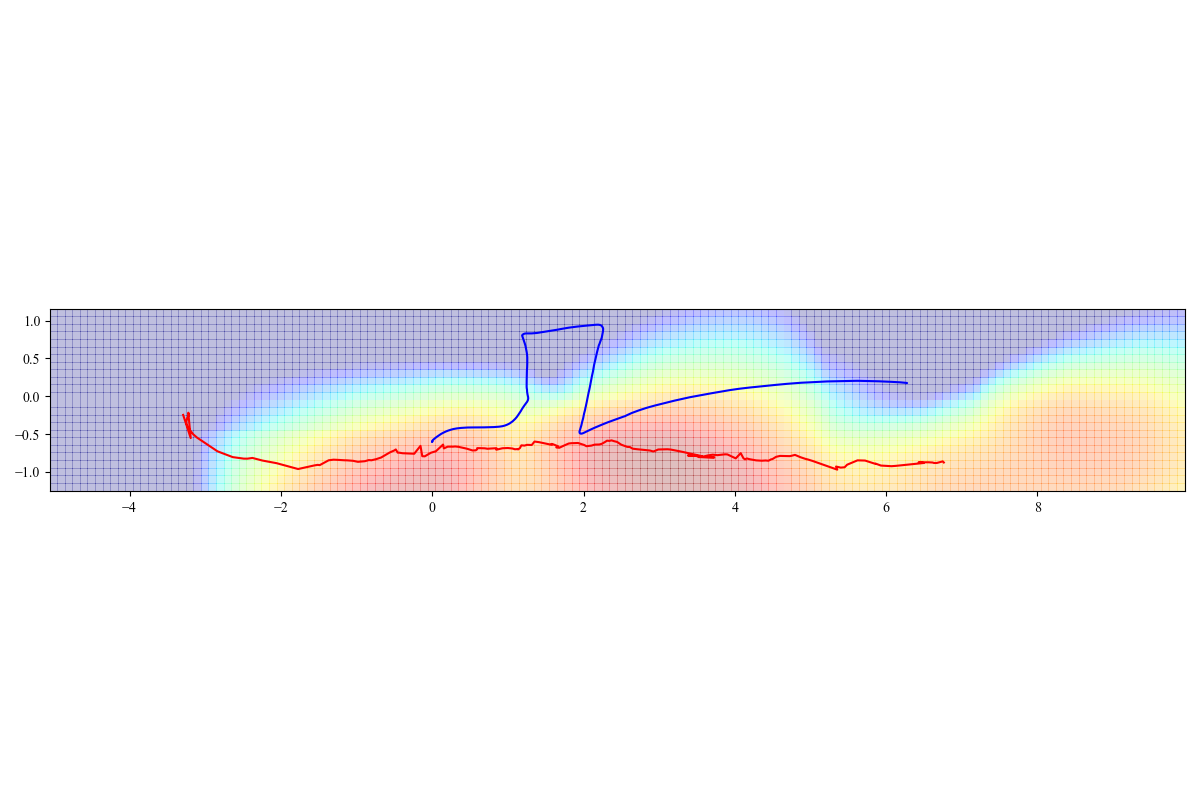
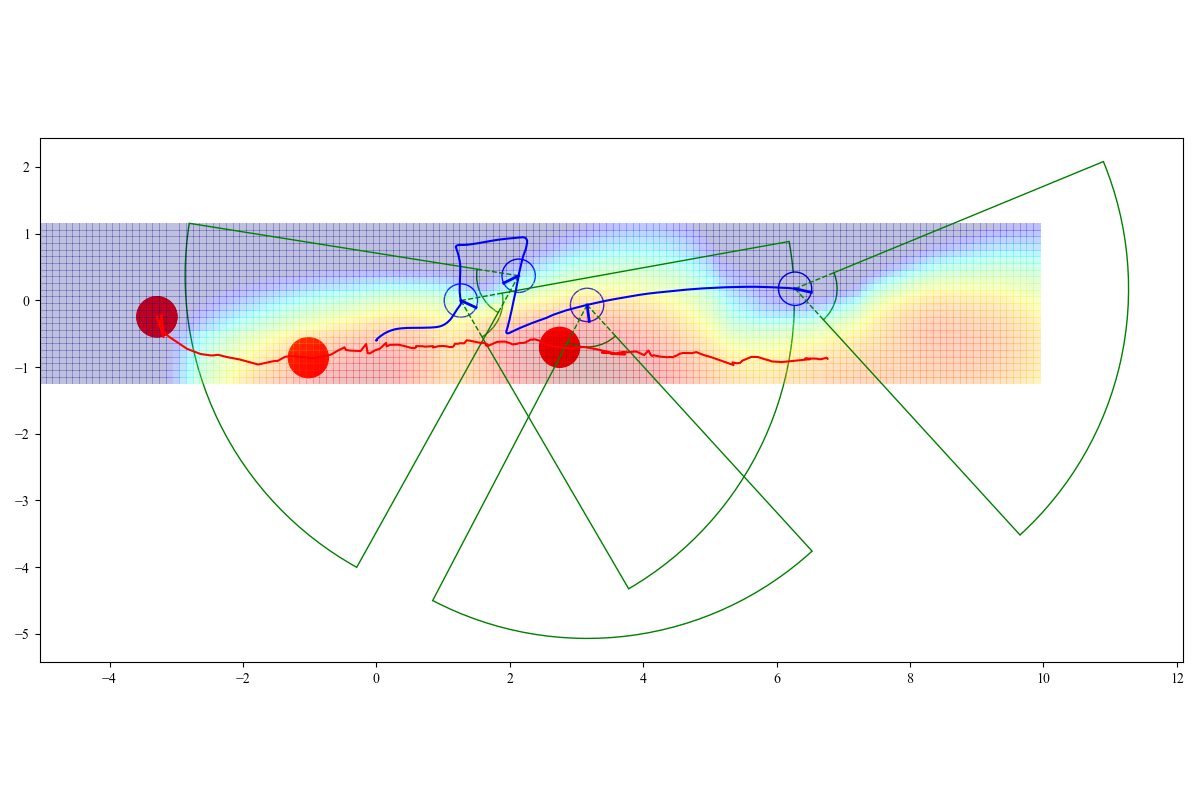
wip

diff --git a/sotsuron_experiment/scripts/analysis_ras_animation.py b/sotsuron_experiment/scripts/analysis_ras_animation.py
@@ -11,7 +11,7 @@ from analysis_management import *
 from analysis_initial_processor import *
 
 class plotSituation():
-    def __init__(self,bag_basename="_2023-12-21-14-39-52"):
+    def __init__(self,bag_basename="_2023-12-21-11-09-57"):
         self.bag_basename=bag_basename
         self.exp_memo_path=f"C:/Users/hayashide/ytlab_ros_ws/ytlab_nlpmp/ytlab_nlpmp_modules/scripts/memo/exp_memo.csv"
         self.nlpmp_results_dir_path="C:/Users/hayashide/ytlab_ros_ws/ytlab_nlpmp/ytlab_nlpmp_modules/results"
@@ -142,8 +142,8 @@ class plotSituation():
 
             # print(f"{theta}, {pan}")
 
-            arc_r1 = patches.Arc(xy=(xR,yR), width=2*self.sns['r1'], height=2*self.sns['r1'], theta1=180/np.pi*((pan+theta)-self.sns['phi']), theta2=180/np.pi*((pan+theta)+self.sns['phi']), edgecolor="g", linewidth=0.5, label="arc")
-            arc_r2 = patches.Arc(xy=(xR,yR), width=2*self.sns['r2'], height=2*self.sns['r2'], theta1=180/np.pi*((pan+theta)-self.sns['phi']), theta2=180/np.pi*((pan+theta)+self.sns['phi']), edgecolor="g", linewidth=0.5, label="arc")
+            arc_r1 = patches.Arc(xy=(xR,yR), width=2*self.sns['r1'], height=2*self.sns['r1'], theta1=180/np.pi*((pan+theta)-self.sns['phi']), theta2=180/np.pi*((pan+theta)+self.sns['phi']), edgecolor="g", linewidth=0.5, label="measurable area")
+            arc_r2 = patches.Arc(xy=(xR,yR), width=2*self.sns['r2'], height=2*self.sns['r2'], theta1=180/np.pi*((pan+theta)-self.sns['phi']), theta2=180/np.pi*((pan+theta)+self.sns['phi']), edgecolor="g", linewidth=0.5)
             plt.gca().add_patch(arc_r1)
             plt.gca().add_patch(arc_r2)
 
@@ -153,7 +153,7 @@ class plotSituation():
                                 [arc_r1_y[-1], arc_r2_y[-1]], 'g', linewidth=0.1,alpha=0.2)
         plt.show()
 
-    def add_plot(self,row):
+    def add_plot_ougi(self,row):
         arc_resolution=100
         xR=row["x"]
         yR=row["y"]
@@ -172,27 +172,33 @@ class plotSituation():
 
         # print(f"{theta}, {pan}")
 
-        arc_r1 = patches.Arc(xy=(xR,yR), width=2*self.sns['r1'], height=2*self.sns['r1'], theta1=180/np.pi*((pan+theta)-self.sns['phi']), theta2=180/np.pi*((pan+theta)+self.sns['phi']), edgecolor="g", linewidth=1, label="arc")
-        arc_r2 = patches.Arc(xy=(xR,yR), width=2*self.sns['r2'], height=2*self.sns['r2'], theta1=180/np.pi*((pan+theta)-self.sns['phi']), theta2=180/np.pi*((pan+theta)+self.sns['phi']), edgecolor="g", linewidth=1, label="arc")
+        arc_r1 = patches.Arc(xy=(xR,yR), width=2*self.sns['r1'], height=2*self.sns['r1'], theta1=180/np.pi*((pan+theta)-self.sns['phi']), theta2=180/np.pi*((pan+theta)+self.sns['phi']), edgecolor="g", linewidth=3, label="arc")
+        arc_r2 = patches.Arc(xy=(xR,yR), width=2*self.sns['r2'], height=2*self.sns['r2'], theta1=180/np.pi*((pan+theta)-self.sns['phi']), theta2=180/np.pi*((pan+theta)+self.sns['phi']), edgecolor="g", linewidth=3, label="arc")
         plt.gca().add_patch(arc_r1)
         plt.gca().add_patch(arc_r2)
 
         arc_right = plt.plot([arc_r1_x[0], arc_r2_x[0]], [
-                            arc_r1_y[0], arc_r2_y[0]], 'g', linewidth=1,alpha=1)
+                            arc_r1_y[0], arc_r2_y[0]], 'g', linewidth=3,alpha=1)
         arc_left = plt.plot([arc_r1_x[-1], arc_r2_x[-1]],
-                            [arc_r1_y[-1], arc_r2_y[-1]], 'g', linewidth=1,alpha=1)
+                            [arc_r1_y[-1], arc_r2_y[-1]], 'g', linewidth=3,alpha=1)
         arc_right_support = plt.plot([xR,arc_r1_x[0]], [
-                            yR,arc_r1_y[0]], 'g--', linewidth=1,alpha=1)
+                            yR,arc_r1_y[0]], 'g--', linewidth=3,alpha=1)
         arc_left_support = plt.plot([xR,arc_r1_x[-1]],
-                            [yR,arc_r1_y[-1]], 'g--', linewidth=1,alpha=1)
+                            [yR,arc_r1_y[-1]], 'g--', linewidth=3,alpha=1)
         
+    def add_plot_others(self,row):
+        arc_resolution=100
+        xR=row["x"]
+        yR=row["y"]
+        theta=row["theta"]
+        pan=row["pan"]
         rbt_position = plt.Circle((xR, yR),
                                      radius=self.rbt["sizer"], edgecolor='b', facecolor='w')
         plt.gca().add_patch(rbt_position)
         rbt_direction = plt.plot([xR, xR + self.rbt["sizer"] * np.cos(theta + pan)],
                                  [yR, yR + self.rbt["sizer"] * np.sin(theta + pan)], 'b', linewidth=2)
         hmn_position = plt.Circle((self.tf_data["trunk_x"][abs(self.tf_data["timestamp"]-row["t"]).idxmin()], self.tf_data["trunk_y"][abs(self.tf_data["timestamp"]-row["t"]).idxmin()]),
-                                     radius=self.hmn["sizer"], edgecolor='r', facecolor='r')
+                                     radius=self.hmn["sizer"], edgecolor='r', facecolor='w')
         plt.gca().add_patch(hmn_position)
         print(self.tf_data["trunk_x"][abs(self.tf_data["timestamp"]-row["t"]).idxmin()], self.tf_data["trunk_y"][abs(self.tf_data["timestamp"]-row["t"]).idxmin()])
         # raise TimeoutError
@@ -223,7 +229,7 @@ class plotSituation():
         fig = plt.figure()
         ax = fig.subplots()
         ax.set_aspect("equal")
-
+        first_iter=True
         for idx,row in self.odom_data.iterrows():
             if idx%5==0:
                 print(f"plotting...: {self.bag_basename} {idx}/{len(self.odom_data)}")
@@ -240,8 +246,20 @@ class plotSituation():
                         J=-self.objF_kukei(t,z,u,self.env,self.rbt,self.hmn,self.sns,zH)
                         J_list[idx_y][idx_x]+=J
             
-            if idx%300==0:
-                self.add_plot(row)
+            if idx==1140 or idx==1200 or idx==1500 or idx==1600 or idx==1800 or idx==2400: # [self.odom_data["t"]<=row["t"]]
+                J_list_log=np.log(J_list)
+                J_list_log=np.where(J_list_log<0,0,J_list_log)
+                ax.pcolor(x_array,y_array,J_list_log,cmap="jet",alpha=0.25)
+                plt.plot(self.odom_data["x"][self.odom_data["t"]<=row["t"]],self.odom_data["y"][self.odom_data["t"]<=row["t"]],"b",label="robot")
+                # plt.plot(self.tf_data["trunk_x"],self.tf_data["trunk_y"],"r",label="human")
+                self.add_plot_ougi(row)
+                self.add_plot_others(row)
+                plt.legend()
+                plt.xlabel("Hallway direction $\it{x}$ [m]")
+                plt.ylabel("Width direction $\it{y}$ [m]")
+                plt.savefig(os.path.split(self.tfcsvpath)[0]+"/"+os.path.basename(self.tfcsvpath)[:-11]+f"_colormap_log_{idx}.png")
+                plt.cla()
+                self.add_plot_others(row)
                 # fig = plt.figure()
                 # # ax = Axes3D(fig)
 
@@ -265,11 +283,11 @@ class plotSituation():
         # fig = plt.figure()
         # ax = fig.subplots()
         # ax.set_aspect("equal")
-        J_list=np.log(J_list)
-        J_list=np.where(J_list<0,0,J_list)
-        ax.pcolor(x_array,y_array,J_list,cmap="jet",alpha=0.25)
+        J_list_log=np.log(J_list)
+        J_list_log=np.where(J_list_log<0,0,J_list_log)
+        ax.pcolor(x_array,y_array,J_list_log,cmap="jet",alpha=0.25)
         plt.plot(self.odom_data["x"],self.odom_data["y"],"b",label="robot")
-        plt.plot(self.tf_data["trunk_x"],self.tf_data["trunk_y"],"r",label="human")
+        # plt.plot(self.tf_data["trunk_x"],self.tf_data["trunk_y"],"r",label="human")
         plt.savefig(os.path.split(self.tfcsvpath)[0]+"/"+os.path.basename(self.tfcsvpath)[:-11]+"_colormap_log.png")
         plt.legend()
         plt.xlabel("Hallway direction $\it{x}$ [m]")
@@ -294,18 +312,18 @@ class plotSituation():
 
 trialdirpaths=sorted(glob("C:/Users/hayashide/kazu_ws/sotsuron_experiment/sotsuron_experiment/results/_2023-12-19*"))
 trialdirpaths+=sorted(glob("C:/Users/hayashide/kazu_ws/sotsuron_experiment/sotsuron_experiment/results/_2023-12-21*"))
-for trialdirpath in trialdirpaths[2:]:
-    try:
-        plot=plotSituation(os.path.basename(trialdirpath))
-        plot.main()
-    except Exception as e:
-        exc_type, exc_obj, exc_tb = sys.exc_info()
-        print(f"line {exc_tb.tb_lineno}: {e}")
+# for trialdirpath in trialdirpaths[2:]:
+#     try:
+#         plot=plotSituation(os.path.basename(trialdirpath))
+#         plot.main()
+#     except Exception as e:
+#         exc_type, exc_obj, exc_tb = sys.exc_info()
+#         print(f"line {exc_tb.tb_lineno}: {e}")
 
     # break
 
-# plot=plotSituation()
-# plot.main()
+plot=plotSituation()
+plot.main()
 
 
 
